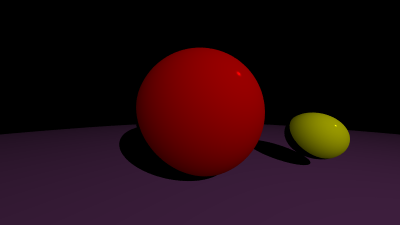
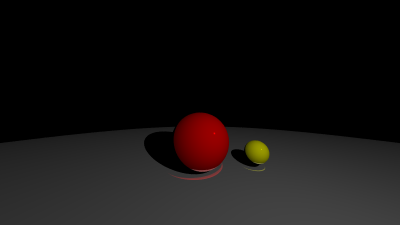
added mirror reflection for all surface

diff --git a/main.cpp b/main.cpp
@@ -7,8 +7,9 @@
 #define AMBIENT_STRENGTH 0.2f
 #define DIFFUSE_STRENGTH 0.4f
 #define SPECULAR_STRENGTH 0.6f
+#define MIRROR_STRENGTH 1.0f
 #define SHININESS 10000.0f
-#define MAX_DEPTH 50
+#define MAX_DEPTH 1
 #include <iostream>
 
 color ray_color(const ray& r, const hittable& world, int depth) {
@@ -35,7 +36,7 @@ color ray_color(const ray& r, const hittable& world, int depth) {
         float shininess = pow(std::max(dot(rec.normal, refl_direction), 0.0), SHININESS);
         vec3 specular = rec.col * shininess * SPECULAR_STRENGTH;
         
-        return color(ambient + diffuse + specular);
+        return color(ambient + diffuse + specular) + MIRROR_STRENGTH *ray_color(ray(rec.p, refl_direction), world, depth+1);
     }
 
     // vec3 unit_direction = unit_vector(r.direction());
@@ -61,13 +62,13 @@ int main() {
     //world.add(make_shared<sphere>(point3(1, 0.5, 1), 0.5, color(1, 1, 1)));
     world.add(make_shared<sphere>(point3(0, 0, -1), 0.5, color(1, 0, 0)));
     world.add(make_shared<sphere>(point3(1, -0.2, -1), 0.2, color(1, 1, 0)));
-    world.add(make_shared<sphere>(point3(0, -100.5, -1), 100, color(0.5, 0.25, 0.5))); //ground
+    world.add(make_shared<sphere>(point3(0, -100.5, -1), 100, color(0.5, 0.5, 0.5))); //ground
 
     // Camera
     auto focal_length = 1.0;
     auto viewport_height = 2.0;
     auto viewport_width = viewport_height * (static_cast<double>(image_width) / image_height);
-    auto camera_center = point3(0, 0, 0);
+    auto camera_center = point3(0, 0.5, 1);
 
     // Calculate the vectors across the horizontal and down the vertical viewport edges.
     auto viewport_u = vec3(viewport_width, 0, 0);
